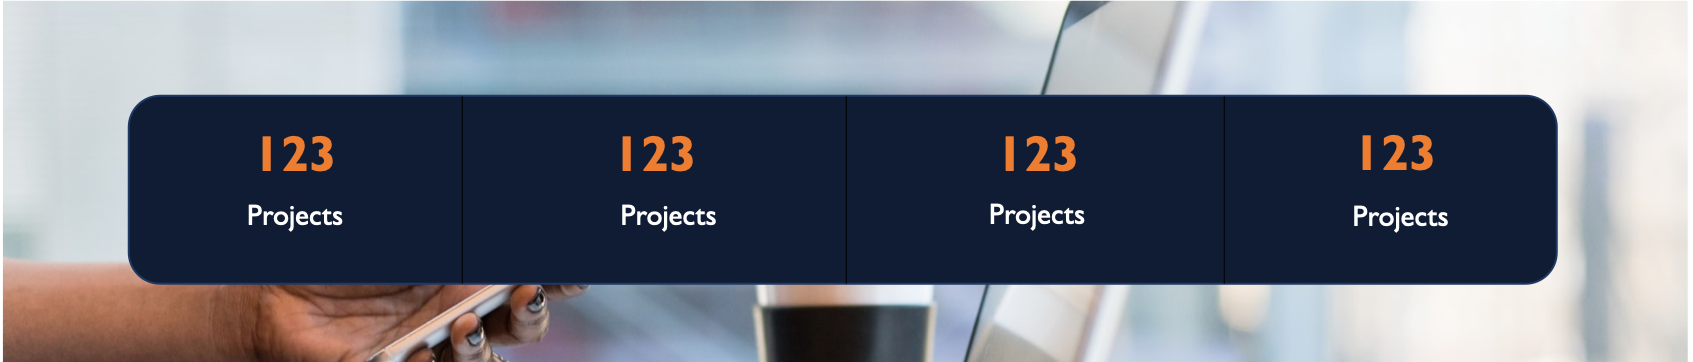
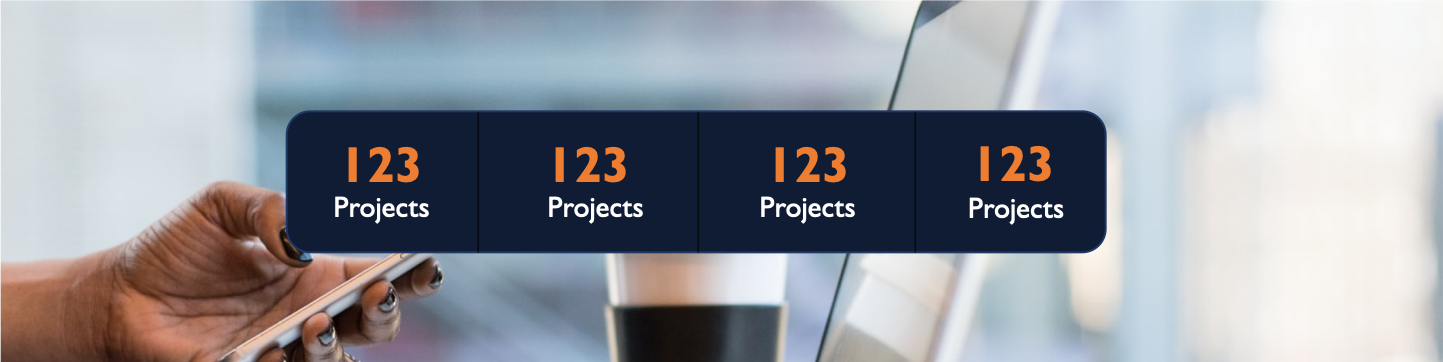
Created image stats on page

diff --git a/index.html b/index.html
@@ -80,19 +80,20 @@
     <section>
         <div class="image-top-page text-center text-light">
             <BR>
-                <BR>
-                    <BR>
-                        <BR>
-                            <BR>
-                                <BR>
+            <BR>
+            <BR>
+            <BR>
+            <BR>
+            <BR>
             <h3>Welcome to Project Agility</h3>
             <h1> Get connected with world-class consultants</h1>
-            <p> Lorem, ipsum dolor sit amet consectetur adipisicing elit. 
-              <br>  Placeat saepe fugit vero deserunt ea quisquam quos cupiditate reiciendis ipsum iure quas,
-              <br> libero accusamus sunt earum incidunt odit corrupti asperiores dolore.</p>
+            <p> Lorem, ipsum dolor sit amet consectetur adipisicing elit.
+                <br> Placeat saepe fugit vero deserunt ea quisquam quos cupiditate reiciendis ipsum iure quas,
+                <br> libero accusamus sunt earum incidunt odit corrupti asperiores dolore.
+            </p>
             <button type="button" class="btn btn-primary user-btn">MORE INFO<a href="#"></a> </button>
             <BR>
-                <BR>
+            <BR>
 
         </div>
         <!-- <div class="gallery_product col-lg-12 col-md-4 col-sm-4 col-xs-6 filter sprinkle image-page-top">
@@ -243,8 +244,18 @@
             <!--- END ROW -->
         </div>
     </section>
+
+    <!---------------------------------------------STATS IMAGE-------------------------------------------------->
+
+    <section>
+        <div class="image-stats text-center text-light col-lg-12 col-md-12 mb-4 mb-md-0">
+        </div>
+        <br>
+    </section>
+
     <!--------------------------------------------------GALLERY---------------------------------------------------->
     <section class="container col-lg-10 col-md-12 mb-4 mb-md-0 offset-lg-1 text-center">
+        <br>
         <div class="row">
             <div class="gallery col-lg-12 col-md-12 col-sm-12 col-xs-12">
                 <h1> Our Gallery </h1>

diff --git a/STYLE.CSS b/STYLE.CSS
@@ -144,8 +144,10 @@ padding: 25px;
 
 
 /* Image Section */
-.image-sec {
-  padding: 50px;
+.image-stats {
+  background-image: url("./assets/Picture1.png");
+  background-color: #cccccc;
+  height: 350px;
 }
 
 /* Gallery */
